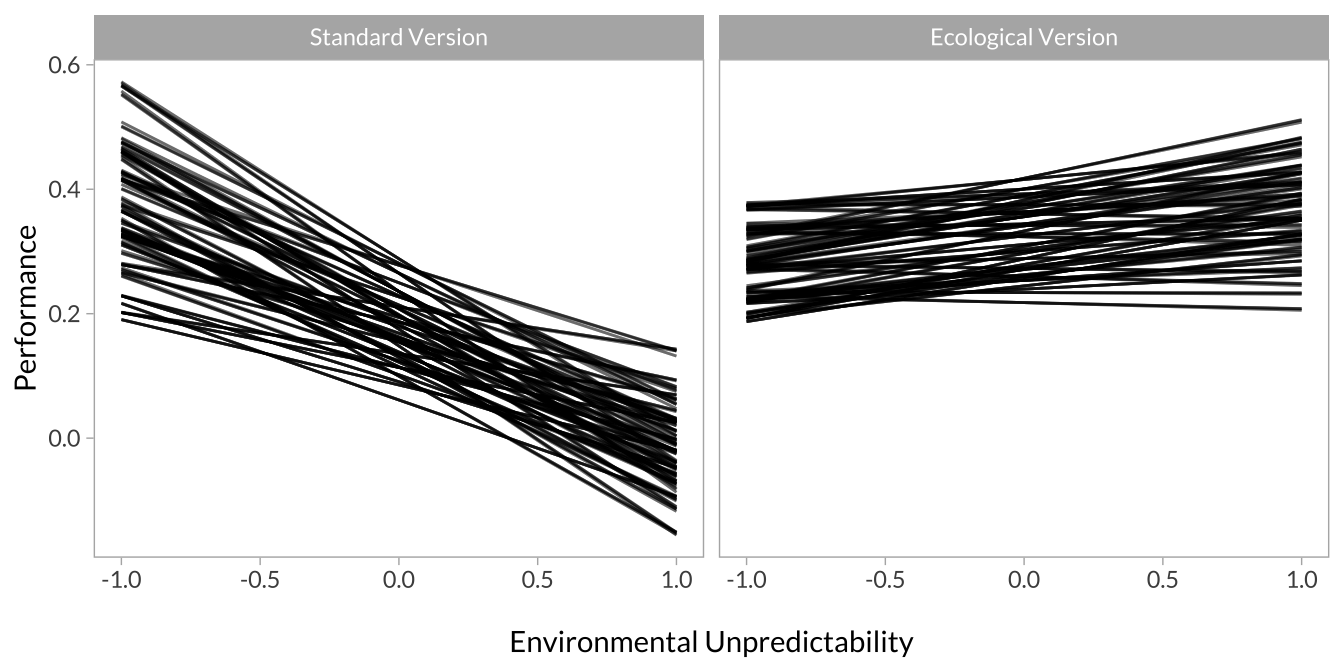
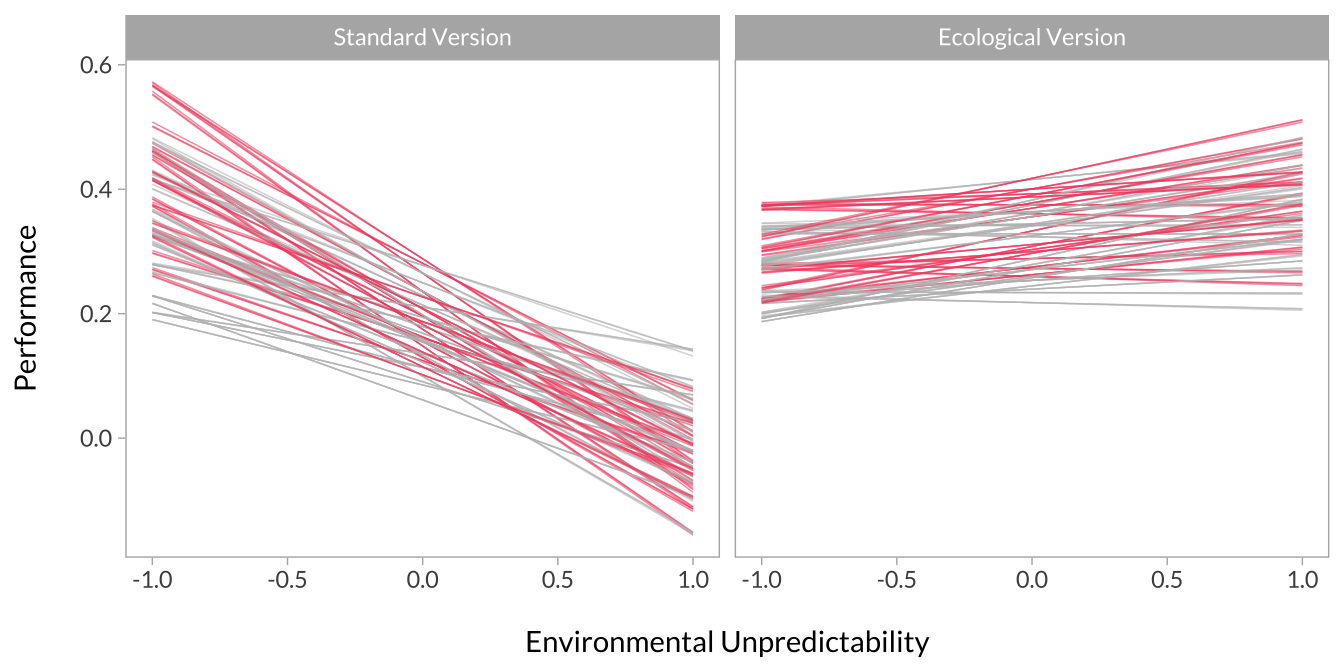
edit multiverse post, make search bar more visible, edit footnotes for posts

diff --git a/content/posts/2020-08-16-mutliverse.html b/content/posts/2020-08-16-mutliverse.html
@@ -3,7 +3,7 @@ title: A Multiverse Analysis of Interaction Effects
 description: Running a multiverse moderation analysis over arbitrary data decisions and plotting the results
 author: ''
 date: '2020-08-16'
-updated: "August 21, 2020"
+updated: "August 25, 2020"
 tocbot: true
 slug: mutliverse
 categories: []
@@ -18,17 +18,22 @@ tags:
 
 <div id="introduction" class="section level3">
 <h3>Introduction</h3>
-<p>In recent years, there is a growing interest in multiverse analysis, a technique for compiling all possible datasets that could result from different data processing decisions. Once compiled, researchers can run their analysis of interest across all datasets in the mulitverse to see how sensitive their models are to the decisions made that produced the underlying data. In this post, I attempt my own multiverse analysis using simulated data.</p>
-<p>Note that there are already many good places to learn more about the multiverse analysis, including papers, blog posts, and code examples. My intention is to understand the mechanics the technique without the aid of a pre-written package, deepen my own understanding, and to flesh out the different possible ways to use the technique and compile results.</p>
+<p>In recent years, there is a growing interest in multiverse analysis, a technique for compiling all possible datasets that could result from different data processing decisions. Once compiled, researchers can run their analysis of interest across all datasets in the mulitverse to see how sensitive their models are to the decisions that produced the underlying data. In this post, I attempt my own multiverse analysis using simulated data.</p>
+<p>Note that there are already many good places to learn more about the multiverse analysis, including papers, blog posts, and code examples. My intention is to understand the mechanics the technique without the aid of a pre-written package. My goal is to deepen my own understanding and to flesh out the different ways to use the technique and compile/visualize the results.</p>
 <div id="arbitrary-vs.-non-arbitrary-decisions" class="section level4">
 <h4>Arbitrary vs. Non-Arbitrary Decisions</h4>
-<p>Processing raw data involves many steps. For example, the typical analysis involves cleaning, preparing, and creating analysis variables, among many other possible steps. Any specific set data processing choices eventually leads to an analysis-ready dataset. However, a slightly different set of choices will lead to a different analysis dataset.</p>
-<p>Data processing steps can be either arbitrary and non-arbitrary. Arbitrary decisions ar those that 1) not expected to influence results and 2) equally defensible/have reasonable justifications. For example, whether to remove outliers at a +/- 3 or 2.5 standard deviations could be a relatively arbitrary data processing decisions; neither cutoff is theoretically informed and both are equally defensible. Non-arbitrary choices should affect results. For example, controlling for a confound could be considered non-arbitrary on theoretical grounds or because doing so will aid interpretation (e.g., when the confound correlates with the outcome of interest).</p>
-<p>Multiverse analysis should be ran over all possible <strong>arbitrary</strong> decisions. This is important because the multiverse can quickly become very large and difficult to interpret. Thus, data analysts should take care to consider what data processing steps are arbitrary or not. Again, non-arbitrary decisions come from theory or empirical observations.</p>
+<p>Processing raw data involves many steps, such as cleaning, preparing, and creating analysis variables (among many others). Such decisions eventually produce an analysis-ready dataset, but making (even slightly) different decisions will produce a different dataset. And so emerges the multiverse: all possible datasets that could emerge from different data processing decisions (see also the <a href="https://www.americanscientist.org/article/the-statistical-crisis-in-science">garden of forking paths</a>).</p>
+<p>An important distinction in multiverse analyses is arbitrary and non-arbitrary nature of particular decisions. Arbitrary decisions ar those that</p>
+<ol style="list-style-type: decimal">
+<li>are not expected to influence results and,</li>
+<li>equally defensible/have reasonable justifications</li>
+</ol>
+<p>For example, whether to remove outliers at +/- 3 or 2.5 standard deviations could be arbitrary. Neither cutoff is theoretically informed and both are equally defensible. In contrast, non-arbitrary choices are expected to affect results, either for theoretical or known empirical reasons. For example, theory might suggest controlling for a confound is crucial for interpreting results. Empirically, controlling for a confound may aid interpretation because it is already known to correlates with the outcome of interest.</p>
+<p>Multiverse analysis should be ran over all possible <strong>arbitrary</strong> decisions. This is important because the multiverse can quickly become unnecessarily large and difficult to interpret. Ideally, the multiverse will comprise all datasets that, by themselves, would make sense to analyze and interpret individually.</p>
 </div>
 <div id="setup" class="section level4">
 <h4>Setup</h4>
-<p>To conduct my own multiverse analysis, I will be using a number of packages from the <a href="www.tidyverse.org">tidyverse</a>. Below are the specific packages I used for my setup:</p>
+<p>To conduct my multiverse analysis, I will be using a number of packages from the <a href="www.tidyverse.org">tidyverse</a>. Below are the specific packages I used for my setup:</p>
 <pre class="r"><code># Load relevant libraries
 library(tidyverse)
 library(lmerTest)
@@ -52,16 +57,16 @@ theme_set(
 </div>
 <div id="simulated-data" class="section level4">
 <h4>Simulated Data</h4>
-<p>The raw data are randomly generated below. I modeled the variables based on an actual project I am working on. The research question is whether or not early life unpredictability (<code>iv_unp</code>) is associated with performance on a cognitive test with two versions, a standard (<code>dv_std</code>) and ecologically relevant (<code>dv_eco</code>) version. We hypothesize that unpredictability negatively impacts perforance on the standard version but enhances performance on the ecological version. To that end, I’ve made performance depend on <code>iv_unp</code> with some error.</p>
+<p>The raw data are randomly generated below. I modeled the variables based on an actual project I am working on. The research question is whether or not early life unpredictability<a href="#fn1" class="footnote-ref" id="fnref1"><sup>1</sup></a> (<code>iv_unp</code>) is associated with performance on a cognitive test with two versions, a standard (<code>dv_std</code>) and ecologically relevant (<code>dv_eco</code>) version<a href="#fn2" class="footnote-ref" id="fnref2"><sup>2</sup></a>. We hypothesize that unpredictability negatively impacts performance on the standard version but enhances performance on the ecological version. To that end, I’ve made performance depend on <code>iv_unp</code> with some error.</p>
 <p>Exclusion variables are also included in the data.</p>
 <ul>
-<li><code>ex_sample</code>: The data (not these but those that I will be actually analzing in a real dataset) come from two samples. The first sample is smaller and considerably more difficult to run our protocol. The second sample is larger and was much easier to control how the protocol was executed. It is possible that our analysis will depend on wether or not we include the smaller subsample.</li>
-<li><code>ex_csd</code>: socially desirable responding, which may have undue influence on our predictor. Children who experience adversity and do not want to report it may also score high on a measure of socially desirability.</li>
-<li><code>ex_sped</code>: Some in our sample recieve special education. It is possible that some students may have cognitive impairments and shouldn’t be analyzed with rest or the sample.</li>
+<li><code>ex_sample</code>: The data (not these but those that I will be actually analyzing in a real dataset) come from two samples. The first sample is smaller and considerably more difficult to run our protocol. The second sample is larger and was much easier to control how the protocol was executed. Thus our results could be different depending on whether or not we include the smaller, noisier sample.</li>
+<li><code>ex_csd</code>: socially desirable responding, which may have undue influence on our predictor. Children who experience adversity, and might want to hide it, may also score high on a measure of socially desirability.</li>
+<li><code>ex_sped</code>: Some in our sample receive special education. It is possible that some students may have cognitive impairments and shouldn’t be analyzed with rest or the sample.</li>
 <li><code>ex_att</code>: We included an a few trap questions in our assessment to detect individuals who may not be taking the study seriously.</li>
 <li><code>ex_imp</code>: Our research assistants noted whether or not participants had trouble reading or seemed impaired somehow.</li>
 </ul>
-<p>These variables will be used to constuct a multiverse of datasets.</p>
+<p>These variables will be used to construct a multiverse of datasets.</p>
 <pre class="r"><code># Set the seed for reproducibility
 set.seed(12345)
 
@@ -318,7 +323,7 @@ dv_eco
 </div>
 <div id="the-arbitrary-data-decision-grid" class="section level3">
 <h3>The Arbitrary Data Decision Grid</h3>
-<p>The first step in conducting the multiverse is to construct a grid of filtering and/or processing steps. The function <code>expand_grid()</code> creates all possible combinations of these decisions. Our decisions are as follows:</p>
+<p>The first step in conducting the multiverse is to construct a grid of data-filtering and/or processing steps. The function <code>expand_grid()</code> creates all possible combinations of these decisions. My decisions are as follows:</p>
 <ul>
 <li>Include or exclude the smaller subsample</li>
 <li>Include or exclude people who failed attention checks</li>
@@ -337,8 +342,8 @@ dv_eco
     dv_eco       = c(&quot;scale(dv_eco) &gt; -10&quot;, &quot;scale(dv_eco) &gt; -3&quot;, &quot;scale(dv_eco) &gt; -2.5&quot;),
     ex_csd       = c(&quot;0&quot;, &quot;1&quot;, &quot;2&quot;)
   )</code></pre>
-<p>The above grid contains 432 different data processing steps, which means our grid will produce a multiverse of 432 datasets. Note that each row contains character strings of the actual code that will be evaluated later to filter raw data.</p>
-<p>For plotting, I also created a grid key with nice names for each decision and nice names for the variables they refer to in the data.</p>
+<p>The above grid contains 432 different data processing steps, which means our grid will produce a multiverse of 432 datasets. Note that each row contains character strings of the actual code that will be evaluated later to filter the raw data.</p>
+<p>For plotting, I also created a grid key with nice names for each decision and for the variables they involve.</p>
 <pre class="r"><code>decision_grid_key &lt;- 
   tribble(~variable,   ~variable_group, ~exp,                      ~name,
           &quot;ex_sample&quot;, &quot;Sample&quot;,        &quot;ex_sample %in% c(0,1)&quot;, &quot;Both Samples&quot;,
@@ -620,7 +625,7 @@ Covariate
 </div>
 <div id="create-the-multiverse" class="section level3">
 <h3>Create the Multiverse</h3>
-<p>After creating the decision grid, we can place the filtering instructions inside a loop to iterate over the all possible decisions. This creates a multiverse of 432 data sets. At the end of each iteration, I save a list of the data, sample size, and the specific decisions that produced the data. The result of this loop will be a large list of 432 elements, each of which are lists containing the above information.</p>
+<p>After creating the decision grid, I can place the filtering instructions inside a loop to iterate over the all possible decisions combinations. This creates a multiverse of 432 data sets. At the end of each iteration, I save a list of the data, sample size, and the specific decisions that produced the data. The result of this loop will be a single, large list of 432 elements.</p>
 <pre class="r"><code># Loop through the multiverse grid and create datasets accordingly
 multiverse_data &lt;-
   decision_grid %&gt;% 
@@ -684,7 +689,7 @@ multiverse_data &lt;-
 ## 7 1        ex_csd    0                     CSD            Not included</code></pre>
 <div id="check-sample-sizes" class="section level4">
 <h4>Check Sample Sizes</h4>
-<p>We can also check the sample sizes of each universe in our multiverse:</p>
+<p>One issue that could arise in multiverse analysis is the sample sizes of individual datasets. If a set of decisions greatly reduces the overall sample size, it may not make sense to analyze the associated dataset. To check this issue, I can plot the distribution of sample sizes as a function of the decisions in our decision grid:</p>
 <pre class="r"><code>mulitverse_sample_size &lt;- 
   map_df(multiverse_data, function(x){
   # Grab the decisions flatten them out
@@ -715,8 +720,16 @@ mulitverse_sample_size %&gt;%
 </div>
 <div id="analyze-the-multiverse" class="section level3">
 <h3>Analyze the Multiverse</h3>
-<p>We’ve generated our multiverse of datasets, now we need to perform our analysis. My strategy is to loop over my <code>multiverse_data</code> object. First, I extract the decisions that produced the data to know what we should do with <code>ex_csd</code> (i.e., create residualized scores, include it as a covariate, or do nothing). Then I restructure the data into long format so I can runa mixed model looking at the main effect of <code>iv_unp</code> (between subjects), main effect of <code>task_type</code> (standard or ecological version), and their interaction and estimating random intercepts for each participant.</p>
-<p>At the end of each iteration, I compile another list with data, decisions that produced the data, whether or not <code>ex_csd</code> was residulized or included as a covariate (or niether), the mixed model object, a tidied table of the coefficients from the model, and table of predicted effects based on +/- 1 SD of <code>iv_unp</code> and <code>task_type</code> (standard or ecological) so we can visualize interactions.</p>
+<p>I’ve generated our multiverse of datasets, now I need to analyze it. My strategy is to loop over my <code>multiverse_data</code> object. First, I extract the decisions that produced the data to know what we should do with <code>ex_csd</code> (i.e., create residualized scores, include it as a covariate, or do nothing). Then I restructure the data into long format so I can run a mixed model with random intercepts to look at the main effect of <code>iv_unp</code> (between subjects), main effect of <code>task_type</code> (standard or ecological version, within subjects), and their interaction.</p>
+<p>At the end of each iteration, I compile another list with the following components:</p>
+<ul>
+<li>The data</li>
+<li>The decisions that produced the data</li>
+<li>What was done with <code>ex_csd</code></li>
+<li>The entire mixed model object (e.g. <code>lmer</code> object)</li>
+<li>A tidied table of the coefficients from the model</li>
+<li>A table of predicted effects based on +/- 1 SD of <code>iv_unp</code> and <code>task_type</code> (standard or ecological) to visualize interactions</li>
+</ul>
 <pre class="r"><code># Loop through all the datasets in the multiverse and do the same analysis
 multiverse_models &lt;- 
   map(multiverse_data, function(x){
@@ -785,7 +798,7 @@ multiverse_models &lt;-
   })</code></pre>
 <div id="multiverse-effect-sizes" class="section level4">
 <h4>Multiverse Effect Sizes</h4>
-<p>With our multiverse of analysis results, we can extract the coefficients for plotting and interpretation. Here, I just loop through my multiverse and get the terms of interest (fixed main effects and interaction term).</p>
+<p>With the multiverse of results, I can extract the coefficients (i.e. regression slopes) for plotting and interpretation. Here, I just loop through my multiverse of results to get this information (i.e., fixed main effects and interaction term).</p>
 <pre class="r"><code># Get the model estimates out of the giant list
 multiverse_estimates &lt;- 
   multiverse_models %&gt;% 
@@ -819,17 +832,19 @@ multiverse_plot_data &lt;-
 </div>
 <div id="displaying-the-results" class="section level3">
 <h3>Displaying the Results</h3>
-<p>There is a lot of information derived from the multiverse analysis. An efficient way of looking at the results is to plot the effect size of each term from our model as a function of each decision, arrange from smallest to largest and (potentially) coloring the estimates by significance. Such a visualization typically has two panels. The first is the effect size curve and the second is a grid of specifications (i.e., decisions) that produced each effect.</p>
-<p>Another way to evaluate the results is to create histograms of the p-values for each effect.</p>
-<p>Finally, because I am primary interested in interactions, I want to plot the form of each interaction obtained. I can do that by plotting predicted estimates based on high and low unpredictability and task-type for every model.</p>
+<p>There is a lot of information derived from the multiverse analysis. An efficient way of looking at the results is to visualize the <em>effect size curve</em> and <em>specification grid</em>. The effect size curve involves extracting the effect sizes from each term and arrange them from smallest to largest, and color them by significance. The specification grid (i.e., decisions) is simply a chart indicating which decisions produced the effects in the curve.</p>
+<p>Another way to evaluate the results is to create histograms of the p-values for each effect. If the p-values of a particular effect tend to cluster around the set alpha level (usually p &lt; .05), the model is relatively robust to the (arbitrary) data processing decisions. If the distribution looks more uniform, the model is more sensitive to these decisions.</p>
+<p>Lastly, because I am primary interested in interactions, I want to plot the form of each interaction obtained. I can do that by plotting predicted estimates based on high and low unpredictability and task-type for every model, coloring lines based on the significance of the interaction term.</p>
 <div id="effect-size-curve" class="section level4">
 <h4>Effect Size Curve</h4>
 <pre class="r"><code>multiverse_effect_curve &lt;- 
   multiverse_plot_data %&gt;% 
   ggplot(aes(x = as.numeric(multiverse_set), y = mod_estimate, color = p_value)) +
-  geom_point(size = .75, show.legend = F) +
-  geom_ribbon(
-    aes(x = as.numeric(multiverse_set), ymin = mod_estimate - mod_std.error, ymax = mod_estimate + mod_std.error, fill = p_value),
+  geom_point(size = .5) +
+  geom_errorbar(
+    aes(x = as.numeric(multiverse_set), ymin = mod_estimate - mod_std.error, ymax = mod_estimate + mod_std.error, color = p_value),
+    size = .25,
+    width = 0,
     alpha = .25, 
     inherit.aes = F, 
     show.legend = T
@@ -879,8 +894,8 @@ multiverse_spec_grid</code></pre>
 )</code></pre>
 <p><img src="/posts/2020-08-16-mutliverse_files/figure-html/unnamed-chunk-10-1.png" width="672" /></p>
 </div>
-<div id="the-multiverse-of-p-values" class="section level4">
-<h4>The Multiverse of p-values</h4>
+<div id="the-histogram-of-p-values" class="section level4">
+<h4>The Histogram of p-values</h4>
 <pre class="r"><code>multiverse_plot_data %&gt;% 
   ggplot(aes(x = mod_p.value)) +
   geom_histogram(color = &quot;black&quot;) +
@@ -900,16 +915,29 @@ multiverse_effects &lt;- map_df(multiverse_models, function(x){
     spread(grid_vars, value)
   
   bind_cols(x$mod_effects, n = x$n, decisions)
-})
+}) %&gt;% 
+  left_join(
+    multiverse_plot_data %&gt;% filter(str_detect(mod_term,&quot;\\:&quot;)) %&gt;% select(term, p_value, decision),
+    by = &quot;decision&quot;
+  )
 
 # Plot the interactions
 multiverse_effects %&gt;% 
   mutate(group = factor(group, levels = c(-1,1), labels = c(&quot;Standard Version&quot;,&quot;Ecological Version&quot;))) %&gt;% 
-  ggplot(aes(x = x, y = predicted, group = decision)) +
-  geom_line(alpha = .25,size = .5) +
+  ggplot(aes(x = x, y = predicted, group = decision, color = p_value)) +
+  geom_line(alpha = .25,size = .25, show.legend = F) +
   scale_x_continuous(&quot;\nEnvironmental Unpredictability&quot;) +
-  scale_y_continuous(&quot;Performance&quot;) +
+  scale_y_continuous(&quot;Performance\n&quot;) +
+  scale_color_manual(values = c(&quot;gray&quot;,&quot;#f0506e&quot;)) +
   facet_wrap(~group) </code></pre>
 <p><img src="/posts/2020-08-16-mutliverse_files/figure-html/unnamed-chunk-12-1.png" width="672" /></p>
+<p>And that’s it! My first foray into multiverse style analysis.</p>
 </div>
+</div>
+<div class="footnotes">
+<hr />
+<ol>
+<li id="fn1"><p>There are actually several other IVs in the actual project, including violence exposure and socioeconomic adversity.<a href="#fnref1" class="footnote-back">↩</a></p></li>
+<li id="fn2"><p>The actual project includes an attention shifting and working memory updating task, each with a standard and ecological version<a href="#fnref2" class="footnote-back">↩</a></p></li>
+</ol>
 </div>

diff --git a/layouts/partials/header.html b/layouts/partials/header.html
@@ -30,12 +30,10 @@
       </div>
       <div class = "uk-navbar-right uk-margin-small-right">
         <div class = "uk-visible@l">
-            <a class="uk-navbar-toggle" uk-search-icon href="#"><span class = "uk-button-text"></span></a>
-            <div id = "search-by-container" class="uk-drop" uk-drop="pos: left-center; offset: 0; delay-hide: 100;">
-                <form  class="uk-search uk-search-navbar uk-width-1-1">
-                    <input id = "search-by" class="uk-search-input uk-width-expand search" type="search" placeholder="Search..." autofocus>
-                </form>
-            </div>
+          <form id = "search-by-container" class="uk-search uk-search-default uk-width-expand">
+            <a href="" class="uk-search-icon-flip" uk-search-icon></a>
+            <input id = "search-by" class="uk-search-input" type="search" placeholder="Search...">
+          </form>
         </div>
       </div>
     </nav>

diff --git a/layouts/posts/single.html b/layouts/posts/single.html
@@ -23,6 +23,12 @@
     font-family: Lato;
   }
   
+div.footnotes:before{
+    content: "Footnotes";
+    font-size: 1rem;
+    font-weight: 700;
+  }
+  
 </style>
 
 <div class = 'uk-container-small uk-margin-auto'>
@@ -67,6 +73,9 @@
         )
       code_block += 1
     });
+    
+    $(".footnotes").addClass("uk-text-small uk-padding uk-padding-remove-horizontal");
+    
   });
 
 </script>
